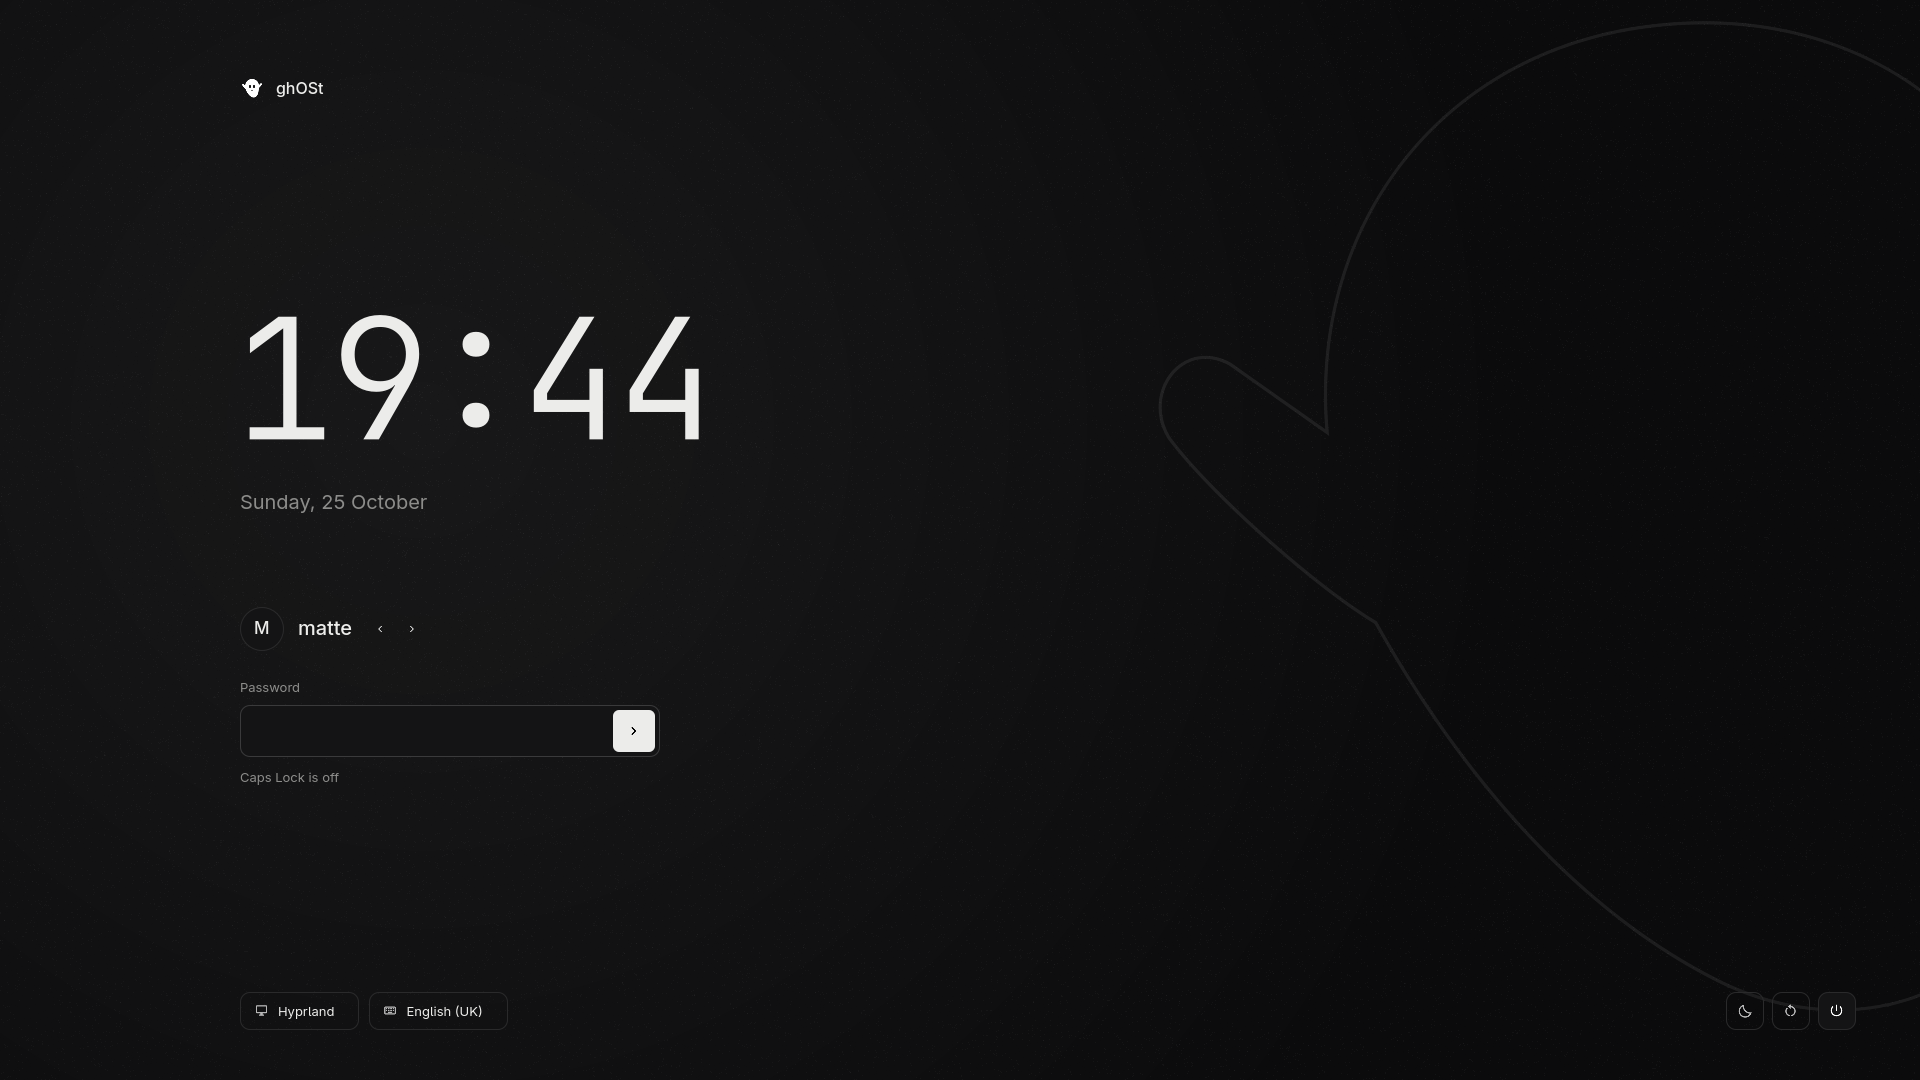
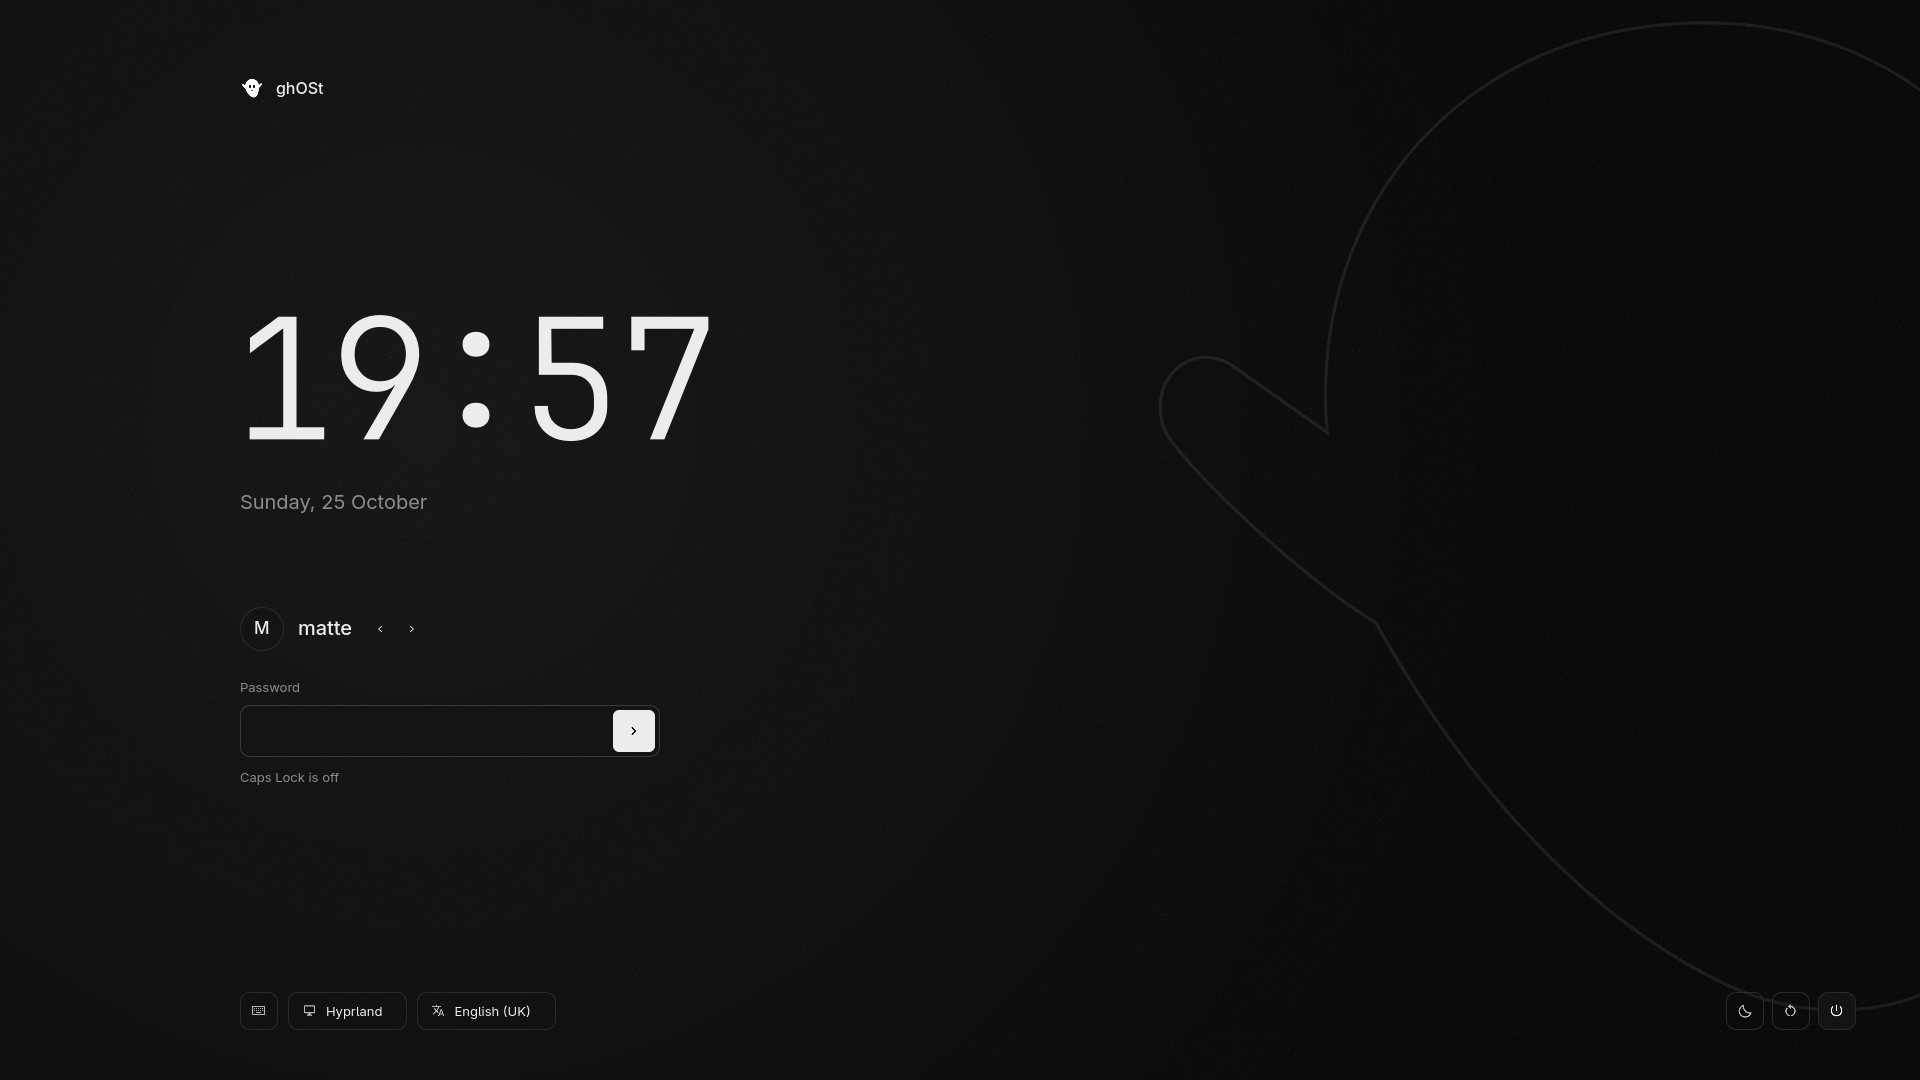
Hide the SDDM on-screen keyboard behind a button
The system input method made Qt show its virtual keyboard over the login
screen. The theme now hosts its own InputPanel, hidden until the new
keyboard button opens it; the layout pill uses the language icon.

Changed region(s): [[0.2812, 0.275, 0.375, 0.4278], [0.125, 0.9167, 0.2812, 0.9472]]

diff --git a/config/sddm/ghost/Main.qml b/config/sddm/ghost/Main.qml
@@ -30,6 +30,7 @@ Item {
     readonly property bool hasLayouts: !!keyboard && !!keyboard.layouts && keyboard.layouts.length > 0
     readonly property string layoutName: hasLayouts ? keyboard.layouts[keyboard.currentLayout].longName : ""
     property string error: ""
+    property bool keyboardOpen: false
     property bool busy: false
     property date now: new Date()
 
@@ -323,8 +324,37 @@ Item {
             x: 240
             y: 992
             spacing: 10
+            Rectangle {
+                objectName: "keyboard-toggle"
+                visible: keyboardLoader.status === Loader.Ready
+                width: 38
+                height: 38
+                radius: root.radius
+                color: root.keyboardOpen ? root.ink : "transparent"
+                border.color: keyHover.hovered ? root.edgeHover : root.edge
+                border.width: 1
+                Image {
+                    anchors.centerIn: parent
+                    width: 17
+                    height: 17
+                    opacity: root.keyboardOpen ? 1 : .7
+                    source: "assets/icons/" + (root.keyboardOpen ? "keyboard-black" : "keyboard") + ".svg"
+                    sourceSize.width: 68
+                    sourceSize.height: 68
+                }
+                HoverHandler {
+                    id: keyHover
+                    cursorShape: Qt.PointingHandCursor
+                }
+                TapHandler {
+                    onTapped: {
+                        root.keyboardOpen = !root.keyboardOpen;
+                        password.forceActiveFocus();
+                    }
+                }
+            }
             Repeater {
-                model: [["display", "session"], ["keyboard", "layout"]]
+                model: [["display", "session"], ["language", "layout"]]
                 Rectangle {
                     id: pill
                     required property var modelData
@@ -410,5 +440,16 @@ Item {
                 }
             }
         }
+    }
+
+    // Loaded separately so a missing virtual-keyboard module cannot break the theme.
+    Loader {
+        id: keyboardLoader
+        source: "KeyboardPanel.qml"
+        width: Math.min(parent.width, 1200 * root.fit)
+        anchors.horizontalCenter: parent.horizontalCenter
+        y: parent.height - (item ? item.height : 0)
+        z: 10
+        onLoaded: item.open = Qt.binding(() => root.keyboardOpen)
     }
 }

diff --git a/tests/sddm-theme.qml b/tests/sddm-theme.qml
@@ -102,6 +102,16 @@ ShellRoot {
                 mouseClick(layout.parent);
                 compare(layout.text, "English (US)");
                 compare(keyboard.currentLayout, 1);
+                // On-screen keyboard: hidden by default, toggled by its button.
+                verify(!theme.keyboardOpen);
+                const toggle = findChild(theme, "keyboard-toggle");
+                console.info("keyboard toggle visible: " + toggle.visible);
+                if (toggle.visible) {
+                    mouseClick(toggle);
+                    verify(theme.keyboardOpen);
+                    mouseClick(toggle);
+                    verify(!theme.keyboardOpen);
+                }
                 console.info("PASS: sddm theme renders, logs in with user/password/session, reports failure, cycles session and layout");
             }
         }

diff --git a/config/sddm/ghost/KeyboardPanel.qml b/config/sddm/ghost/KeyboardPanel.qml
@@ -1,0 +1,10 @@
+import QtQuick
+import QtQuick.VirtualKeyboard
+
+// On-screen keyboard. Hosting our own InputPanel stops Qt's automatic panel,
+// so the keyboard only appears when the user turns it on.
+InputPanel {
+    property bool open: false
+    visible: open
+    externalLanguageSwitchEnabled: false
+}

diff --git a/docs/sddm.md b/docs/sddm.md
@@ -16,6 +16,10 @@ installed or applied** by any ghOSt script; `scripts/install.py` never touches i
   shows "Incorrect password". Caps Lock state is shown under the field.
 - Session and keyboard-layout buttons cycle through SDDM's sessions and layouts.
 - Sleep, restart and power buttons only appear when SDDM reports them available.
+- On-screen keyboard: hidden by default. The keyboard button (bottom left)
+  opens and closes it. The theme hosts its own panel (`KeyboardPanel.qml`), which
+  stops Qt's automatic one from `InputMethod=qtvirtualkeyboard`. If the module is
+  missing, the button is hidden and the theme still loads.
 - Background: off-black field, soft light, fine grain, and an optional faint
   ghost outline (`watermark=false` in `theme.conf` turns it off).
 - Fonts, icons and the outline are bundled under `assets/` with their licences.

diff --git a/docs/PROGRESS.md b/docs/PROGRESS.md
@@ -1,5 +1,13 @@
 # ghOSt progress
 
+## 2026-10-25 / SDDM on-screen keyboard behind a button
+
+The user confirmed the theme works at a real login, but the virtual keyboard
+covered the screen (system `InputMethod=qtvirtualkeyboard`). The theme now hosts
+its own hidden InputPanel with a toggle button; the layout pill uses the language
+icon. The theme test passes with the keyboard module loaded. Needs re-copying to
+`/usr/share/sddm/themes/ghost` by the user.
+
 ## 2026-10-25 / SDDM theme built, not installed
 
 The chosen login mockup (editorial left, ghost watermark) is now a real Qt 6 SDDM
